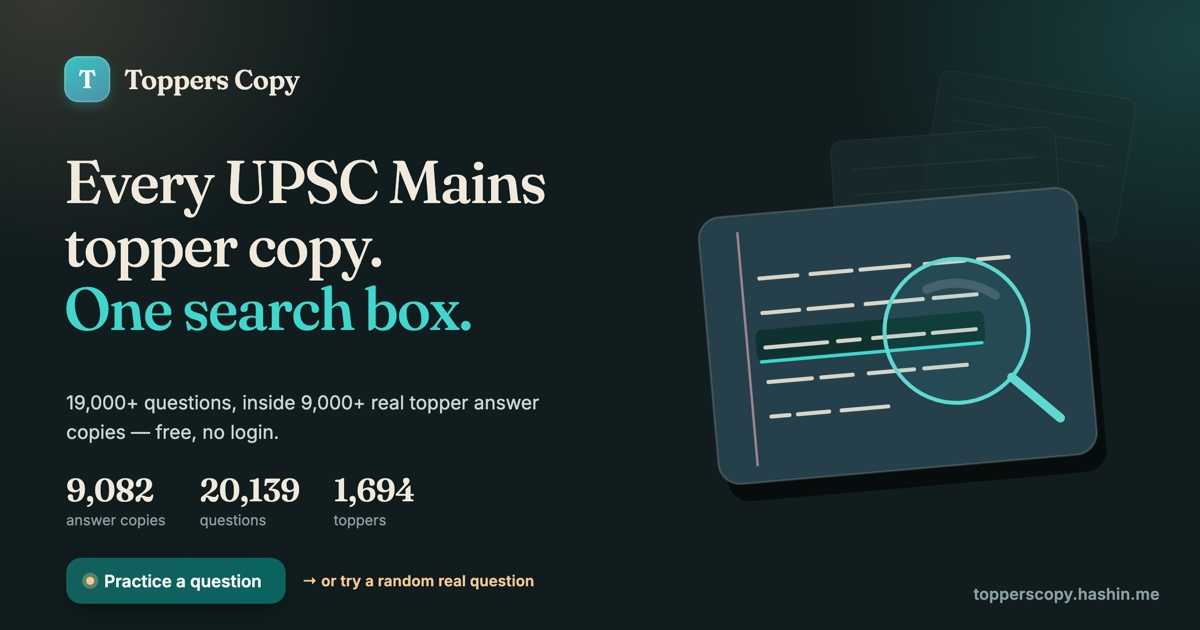
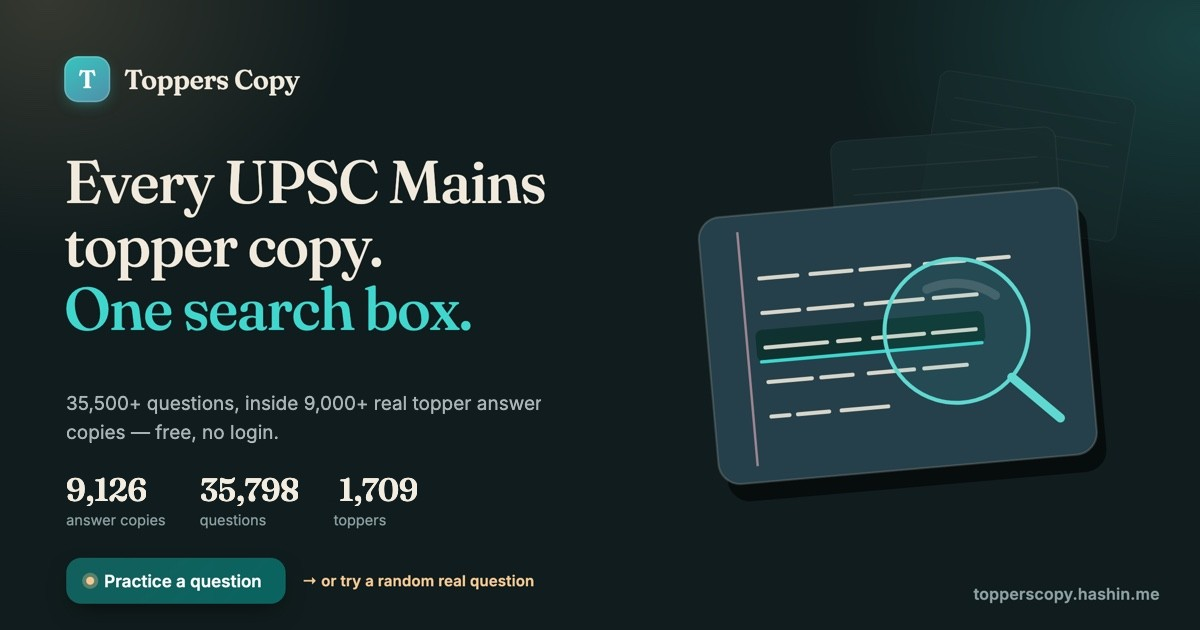
Update the OG hero image's stats to current numbers
assets/og.jpg had 2026-09-11 figures baked into its pixels (9,082
copies, 20,139 questions, 1,694 toppers). Patched just the numbers in
place against the live homepage's current data — sampled the original
image's exact positions/colors, rendered replacement digits in the
site's own fonts, and composited them back in, so the design, brand
mark, and illustration are byte-identical to the original except for
the four number spots. og:image:alt updated to match.

diff --git a/index.html b/index.html
@@ -6,7 +6,7 @@
 
 <title>Topper's Copy by Hashin — UPSC Mains topper answer copies, searchable</title>
 <!-- META:START -->
-<meta name="description" content="Search 30,500+ questions inside 9,000+ UPSC Civil Services Mains topper answer copies — GS1-4, Essay and optional subjects — plus 3,800+ interview transcripts to help you prepare for your own Personality Test. Free, open and community-built.">
+<meta name="description" content="Search 33,500+ questions inside 9,000+ UPSC Civil Services Mains topper answer copies — GS1-4, Essay and optional subjects — plus 3,800+ interview transcripts to help you prepare for your own Personality Test. Free, open and community-built.">
 <!-- META:END -->
 <link rel="canonical" href="https://topperscopy.hashin.me/">
 <meta name="robots" content="index,follow,max-image-preview:large,max-snippet:-1,max-video-preview:-1">
@@ -20,14 +20,14 @@
 <meta property="og:site_name" content="Topper's Copy by Hashin">
 <meta property="og:title" content="Topper's Copy by Hashin — UPSC Mains topper answer copies, searchable">
 <!-- OGDESC:START -->
-<meta property="og:description" content="Search 30,500+ questions inside 9,000+ UPSC Mains topper answer copies, jump to the exact page, and study 3,800+ real interview transcripts. GS, Essay and optional subjects. Free and open.">
+<meta property="og:description" content="Search 33,500+ questions inside 9,000+ UPSC Mains topper answer copies, jump to the exact page, and study 3,800+ real interview transcripts. GS, Essay and optional subjects. Free and open.">
 <!-- OGDESC:END -->
 <meta property="og:url" content="https://topperscopy.hashin.me/">
 <meta property="og:image" content="https://topperscopy.hashin.me/assets/og.jpg">
 <meta property="og:image:type" content="image/jpeg">
 <meta property="og:image:width" content="1200">
 <meta property="og:image:height" content="630">
-<meta property="og:image:alt" content="Topper's Copy by Hashin: every UPSC Mains topper copy, one search box. 9,082 answer copies, 20,139 questions, 1,694 toppers — plus a Practice a question button.">
+<meta property="og:image:alt" content="Topper's Copy by Hashin: every UPSC Mains topper copy, one search box. 9,126 answer copies, 35,798 questions, 1,709 toppers — plus a Practice a question button.">
 <meta property="og:locale" content="en_IN">
 <meta name="twitter:card" content="summary_large_image">
 <meta name="twitter:title" content="Topper's Copy by Hashin — UPSC Mains topper answer copies, searchable">
@@ -162,17 +162,17 @@
   <style>.skeleton{min-height:0}</style>
   <section class="prose" style="padding:24px 0">
     <h2>UPSC Mains topper answer copies — full index</h2>
-    <p>30,631 questions from 1,985 answer
-    copies by 678 rankers (GS Paper 1&ndash;4 and Essay), each linking to the exact page of the
+    <p>33,625 questions from 2,164 answer
+    copies by 727 rankers (GS Paper 1&ndash;4 and Essay), each linking to the exact page of the
     source PDF. A free, open, community-built index. Optional-subject copies (Sociology, Anthropology,
     History, PSIR, Geography, Mathematics and more) are community-compiled.</p>
-    <p><strong><a href="toppers.html">Open the full static index of all 1520 toppers and every copy &rarr;</a></strong>
+    <p><strong><a href="toppers.html">Open the full static index of all 1521 toppers and every copy &rarr;</a></strong>
     &nbsp;·&nbsp; <a href="data/copies.json">machine-readable data (JSON)</a>
     &nbsp;·&nbsp; <a href="/llms.txt">llms.txt</a></p>
     <p>Preparing for your own Personality Test? The <a href="/#interviews">Interviews tab</a> has
     3,863 UPSC interview transcripts — real board-by-board questions, DAF topics and candidate
     backgrounds — to see what boards actually ask.</p>
-    <h3>Selected rankers (150 of 678 — full list in <a href="toppers.html">toppers.html</a>)</h3>
+    <h3>Selected rankers (150 of 727 — full list in <a href="toppers.html">toppers.html</a>)</h3>
     <ul>
 <li><a href="/topper/aditya-srivastava/">Aditya Srivastava</a> — AIR 1 · CSE 2023</li>
 <li><a href="/topper/ishita-kishore/">Ishita Kishore</a> — AIR 1 · CSE 2022</li>
@@ -241,17 +241,20 @@
 <li><a href="/topper/sagar-kumar/">Sagar Kumar</a> — AIR 13 · CSE 2017</li>
 <li><a href="/topper/varnit-negi/">Varnit Negi</a> — AIR 13 · CSE 2018</li>
 <li><a href="/topper/vidushi-singh/">Vidushi Singh</a> — AIR 13 · CSE 2022</li>
+<li><a href="/topper/anmol-jain/">Anmol Jain</a> — AIR 14 · CSE 2019</li>
 <li><a href="/topper/karishma-nair/">Karishma Nair</a> — AIR 14 · CSE 2020</li>
 <li><a href="/topper/kritika-goyal/">Kritika Goyal</a> — AIR 14 · CSE 2022</li>
 <li><a href="/topper/surabhi-yadav/">Surabhi Yadav</a> — AIR 14 · CSE 2025</li>
 <li><a href="/topper/utsav-kaushal/">Utsav Kaushal</a> — AIR 14 · CSE 2016</li>
 <li><a href="/topper/banna-venkatesh/">Banna Venkatesh</a> — AIR 15 · CSE 2024</li>
+<li><a href="/topper/kunal-rastogi/">Kunal Rastogi</a> — AIR 15 · CSE 2023</li>
 <li><a href="/topper/neha-bhosle/">Neha Bhosle</a> — AIR 15 · CSE 2019</li>
 <li><a href="/topper/ria-dabi/">Ria Dabi</a> — AIR 15 · CSE 2020</li>
 <li><a href="/topper/shivani-goyal/">Shivani Goyal</a> — AIR 15 · CSE 2017</li>
 <li><a href="/topper/sidharth-b/">Sidharth B.</a> — AIR 15 · CSE 2016</li>
 <li><a href="/topper/simrandeep-kaur/">Simrandeep Kaur</a> — AIR 15 · CSE 2025</li>
 <li><a href="/topper/anshu-priya/">Anshu Priya</a> — AIR 16 · CSE 2021</li>
+<li><a href="/topper/arth-jain/">Arth Jain</a> — AIR 16 · CSE 2020</li>
 <li><a href="/topper/ayan-jain/">Ayan Jain</a> — AIR 16 · CSE 2023</li>
 <li><a href="/topper/gunjan-singh/">Gunjan Singh</a> — AIR 16 · CSE 2019</li>
 <li><a href="/topper/madhav-agarwal/">Madhav Agarwal</a> — AIR 16 · CSE 2024</li>
@@ -261,9 +264,11 @@
 <li><a href="/topper/chitwan-jain/">Chitwan Jain</a> — AIR 17 · CSE 2025</li>
 <li><a href="/topper/mehak-jain/">Mehak Jain</a> — AIR 17 · CSE 2021</li>
 <li><a href="/topper/sanskriti-trivedy/">Sanskriti Trivedy</a> — AIR 17 · CSE 2024</li>
+<li><a href="/topper/sarthak-agrawal/">Sarthak Agrawal</a> — AIR 17 · CSE 2020 <a class="tg" href="https://t.me/SarthakUPSCPSIR" target="_blank" rel="nofollow noopener">Telegram ↗</a></li>
 <li><a href="/topper/swati-sharma/">Swati Sharma</a> — AIR 17 · CSE 2023</li>
 <li><a href="/topper/manish-gurwani/">Manish Gurwani</a> — AIR 18 · CSE 2016</li>
 <li><a href="/topper/radhika-gupta/">Radhika Gupta</a> — AIR 18 · CSE 2020</li>
+<li><a href="/topper/siddharth-shukla/">Siddharth Shukla</a> — AIR 18 · CSE 2022</li>
 <li><a href="/topper/sruthii-r/">Sruthii R</a> — AIR 18 · CSE 2025</li>
 <li><a href="/topper/abhijeet-sinha/">Abhijeet Sinha</a> — AIR 19 · CSE 2017</li>
 <li><a href="/topper/diksha-joshi/">Diksha Joshi</a> — AIR 19 · CSE 2021</li>
@@ -276,6 +281,7 @@
 <li><a href="/topper/trilok-singh/">Trilok Singh</a> — AIR 20 · CSE 2024 <a class="tg" href="https://t.me/ias_trilok_singhair20" target="_blank" rel="nofollow noopener">Telegram ↗</a></li>
 <li><a href="/topper/divyank-gupta/">Divyank Gupta</a> — AIR 21 · CSE 2024</li>
 <li><a href="/topper/pratyush-pandey/">Pratyush Pandey</a> — AIR 21 · CSE 2019</li>
+<li><a href="/topper/rahul-jain/">Rahul Jain</a> — AIR 21 · CSE 2018</li>
 <li><a href="/topper/akhil-pilani/">Akhil Pilani</a> — AIR 22 · CSE 2017</li>
 <li><a href="/topper/anshul/">Anshul</a> — AIR 22</li>
 <li><a href="/topper/geetika-arora/">Geetika Arora</a> — AIR 22 · CSE 2025</li>
@@ -293,6 +299,7 @@
 <li><a href="/topper/ritika-verma/">RITIKA VERMA</a> — AIR 25 · CSE 2023</li>
 <li><a href="/topper/saad-miya-khan/">Saad Miya Khan</a> — AIR 25 · CSE 2017</li>
 <li><a href="/topper/shruti-rajlakshmi/">Shruti Rajlakshmi</a> — AIR 25 · CSE 2021</li>
+<li><a href="/topper/vaibhav-gondane/">Vaibhav Gondane</a> — AIR 25 · CSE 2018</li>
 <li><a href="/topper/vaibhav-rawat/">Vaibhav Rawat</a> — AIR 25 · CSE 2020</li>
 <li><a href="/topper/himanshu-nagpal/">Himanshu Nagpal</a> — AIR 26 · CSE 2018</li>
 <li><a href="/topper/rupal-rana/">Rupal Rana</a> — AIR 26 · CSE 2023</li>
@@ -303,6 +310,7 @@
 <li><a href="/topper/divya-mishra/">Divya Mishra</a> — AIR 28 · CSE 2020</li>
 <li><a href="/topper/rishabh-choudhary/">Rishabh Choudhary</a> — AIR 28 · CSE 2024 <a class="tg" href="https://t.me/rishabhchoudhary28" target="_blank" rel="nofollow noopener">Telegram ↗</a></li>
 <li><a href="/topper/sameera/">Sameera</a> — AIR 28 · CSE 2017</li>
+<li><a href="/topper/keerthi-vasan/">Keerthi Vasan</a> — AIR 29 · CSE 2017</li>
 <li><a href="/topper/nabiya/">Nabiya</a> — AIR 29 · CSE 2025</li>
 <li><a href="/topper/nabiya-parvez/">Nabiya Parvez</a> — AIR 29 · CSE 2025</li>
 <li><a href="/topper/pourush-sood/">Pourush Sood</a> — AIR 29 · CSE 2022</li>
@@ -311,19 +319,11 @@
 <li><a href="/topper/nikita-verma/">Nikita Verma</a> — AIR 30 · CSE 2025</li>
 <li><a href="/topper/pari-bishnoi/">Pari Bishnoi</a> — AIR 30 · CSE 2019</li>
 <li><a href="/topper/aryan-yadav/">Aryan Yadav</a> — AIR 31 · CSE 2025</li>
+<li><a href="/topper/priyansha-garg/">Priyansha Garg</a> — AIR 31 · CSE 2022</li>
 <li><a href="/topper/shreya-tyagi/">Shreya Tyagi</a> — AIR 31 · CSE 2024</li>
 <li><a href="/topper/simi-karan/">Simi Karan</a> — AIR 31 · CSE 2019</li>
 <li><a href="/topper/vishnu-sasikumar/">Vishnu Sasikumar</a> — AIR 31 · CSE 2023</li>
 <li><a href="/topper/y-megha-swaroop/">Y Megha Swaroop</a> — AIR 31 · CSE 2020</li>
-<li><a href="/topper/arjun-gupta/">Arjun Gupta</a> — AIR 32 · CSE 2023</li>
-<li><a href="/topper/utkarsh-yadav/">Utkarsh Yadav</a> — AIR 32 · CSE 2024</li>
-<li><a href="/topper/mayank-purohit/">Mayank Purohit</a> — AIR 33 · CSE 2025</li>
-<li><a href="/topper/navneet-mann/">Navneet Mann</a> — AIR 33 · CSE 2019</li>
-<li><a href="/topper/tharun-patnaik/">Tharun Patnaik</a> — AIR 33 · CSE 2022</li>
-<li><a href="/topper/tharun-patnaik-madala/">Tharun Patnaik Madala</a> — AIR 33 · CSE 2022</li>
-<li><a href="/topper/zufishan-haque/">Zufishan Haque</a> — AIR 33 · CSE 2023</li>
-<li><a href="/topper/abhi-jain/">Abhi Jain</a> — AIR 34 · CSE 2024</li>
-<li><a href="/topper/ankit/">Ankit</a> — AIR 34 · CSE 2018</li>
     </ul>
   </section>
 </noscript>
@@ -627,7 +627,7 @@
 
 <!-- LD:START -->
 <script type="application/ld+json">
-{"@context":"https://schema.org","@graph":[{"@type":"WebSite","@id":"https://topperscopy.hashin.me/#website","url":"https://topperscopy.hashin.me/","name":"Topper's Copy by Hashin","description":"Searchable directory of UPSC Civil Services Mains topper answer copies — GS1–4, Essay and optional subjects.","inLanguage":"en","publisher":{"@id":"https://topperscopy.hashin.me/#org"},"potentialAction":{"@type":"SearchAction","target":{"@type":"EntryPoint","urlTemplate":"https://topperscopy.hashin.me/?q={search_term_string}"},"query-input":"required name=search_term_string"}},{"@type":"Organization","@id":"https://topperscopy.hashin.me/#org","name":"Topper's Copy by Hashin","url":"https://topperscopy.hashin.me/","description":"A free, open, community-built index of UPSC Mains topper answer copies.","founder":{"@id":"https://topperscopy.hashin.me/#hashin"}},{"@type":"Person","@id":"https://topperscopy.hashin.me/#hashin","name":"Hashin Jithu","url":"https://blog.hashin.me","description":"Creator and maintainer of Topper's Copy by Hashin. Topper of the UPSC Civil Services Examination 2021 with an All India Rank of 553. Built Topper's Copy by Hashin as a non-commercial way of giving back to the UPSC aspirant community.","knowsAbout":["UPSC Civil Services Examination","UPSC Mains answer writing","Public policy"],"award":"All India Rank 553, UPSC Civil Services Examination 2021"},{"@type":"Dataset","@id":"https://topperscopy.hashin.me/#dataset","name":"UPSC Mains Topper Answer Copies — question index","description":"A structured index of 30,631 questions across 1,985 UPSC Civil Services Mains answer copies written by 678 rank-holders, covering General Studies Papers 1–4 and the Essay paper. Each record links to the exact page of the source PDF published by coaching institutes such as ForumIAS, Vision IAS and NextIAS.","url":"https://topperscopy.hashin.me/","keywords":["UPSC","Civil Services Exam","Mains","answer copy","toppers","General Studies","Essay","IAS","interview transcripts","Personality Test"],"license":"https://github.com/hashin/topperscopy/blob/main/LICENSE","isAccessibleForFree":true,"creator":{"@id":"https://topperscopy.hashin.me/#org"},"dateModified":"2026-09-17","distribution":[{"@type":"DataDownload","name":"Complete flat question table (CSV)","encodingFormat":"text/csv","contentUrl":"https://topperscopy.hashin.me/dataset/questions.csv"},{"@type":"DataDownload","name":"Complete dataset (nested JSON)","encodingFormat":"application/json","contentUrl":"https://topperscopy.hashin.me/dataset/dataset.json"},{"@type":"DataDownload","name":"Per-topper table (CSV)","encodingFormat":"text/csv","contentUrl":"https://topperscopy.hashin.me/dataset/toppers.csv"},{"@type":"DataDownload","name":"App index, grouped by topper (JSON)","encodingFormat":"application/json","contentUrl":"https://topperscopy.hashin.me/data/copies.json"}]},{"@type":"FAQPage","@id":"https://topperscopy.hashin.me/#faq","mainEntity":[{"@type":"Question","name":"What is Topper's Copy by Hashin?","acceptedAnswer":{"@type":"Answer","text":"A free, searchable directory of UPSC Civil Services Mains topper answer copies. It indexes 30,631 questions inside 1,985 answer copies by 678 rankers and links to the exact page of each source PDF."}},{"@type":"Question","name":"Where do the answer copies come from?","acceptedAnswer":{"@type":"Answer","text":"Every copy is hosted by the coaching institute or compiler that published it — ForumIAS, Vision IAS, NextIAS, Lukmaan IAS, GS SCORE, Rau’s IAS, Level Up IAS, IMS4Maths, SuccessClap, UnlockIAS, Sleepy Classes and others — or the topper’s own Google Drive. Topper's Copy by Hashin only links to those files and never re-hosts them; it is a free, open, community-built index."}},{"@type":"Question","name":"Does it cover optional subjects?","acceptedAnswer":{"@type":"Answer","text":"Yes. Alongside GS1–GS4 and Essay, there is a community-built section for optional subjects — Sociology, Anthropology, History, PSIR, Geography, Public Administration, Philosophy, Economics, Literature and more."}},{"@type":"Question","name":"Can I prepare for the UPSC interview (Personality Test) here?","acceptedAnswer":{"@type":"Answer","text":"Yes. The Interviews tab has 3,863 real UPSC Personality Test transcripts — board members, the questions each panellist actually asked, DAF topics discussed, and candidate hobbies and education background — searchable by board, year, optional subject or state."}},{"@type":"Question","name":"Is it free?","acceptedAnswer":{"@type":"Answer","text":"Yes, completely free and open source. No login, no ads."}},{"@type":"Question","name":"How can I add a missing copy or a topper’s marks?","acceptedAnswer":{"@type":"Answer","text":"Use the Submit form on the site. It opens a pre-filled GitHub issue that a maintainer verifies before it goes live."}}]}]}
+{"@context":"https://schema.org","@graph":[{"@type":"WebSite","@id":"https://topperscopy.hashin.me/#website","url":"https://topperscopy.hashin.me/","name":"Topper's Copy by Hashin","description":"Searchable directory of UPSC Civil Services Mains topper answer copies — GS1–4, Essay and optional subjects.","inLanguage":"en","publisher":{"@id":"https://topperscopy.hashin.me/#org"},"potentialAction":{"@type":"SearchAction","target":{"@type":"EntryPoint","urlTemplate":"https://topperscopy.hashin.me/?q={search_term_string}"},"query-input":"required name=search_term_string"}},{"@type":"Organization","@id":"https://topperscopy.hashin.me/#org","name":"Topper's Copy by Hashin","url":"https://topperscopy.hashin.me/","description":"A free, open, community-built index of UPSC Mains topper answer copies.","founder":{"@id":"https://topperscopy.hashin.me/#hashin"}},{"@type":"Person","@id":"https://topperscopy.hashin.me/#hashin","name":"Hashin Jithu","url":"https://blog.hashin.me","description":"Creator and maintainer of Topper's Copy by Hashin. Topper of the UPSC Civil Services Examination 2021 with an All India Rank of 553. Built Topper's Copy by Hashin as a non-commercial way of giving back to the UPSC aspirant community.","knowsAbout":["UPSC Civil Services Examination","UPSC Mains answer writing","Public policy"],"award":"All India Rank 553, UPSC Civil Services Examination 2021"},{"@type":"Dataset","@id":"https://topperscopy.hashin.me/#dataset","name":"UPSC Mains Topper Answer Copies — question index","description":"A structured index of 33,625 questions across 2,164 UPSC Civil Services Mains answer copies written by 727 rank-holders, covering General Studies Papers 1–4 and the Essay paper. Each record links to the exact page of the source PDF published by coaching institutes such as ForumIAS, Vision IAS and NextIAS.","url":"https://topperscopy.hashin.me/","keywords":["UPSC","Civil Services Exam","Mains","answer copy","toppers","General Studies","Essay","IAS","interview transcripts","Personality Test"],"license":"https://github.com/hashin/topperscopy/blob/main/LICENSE","isAccessibleForFree":true,"creator":{"@id":"https://topperscopy.hashin.me/#org"},"dateModified":"2026-09-19","distribution":[{"@type":"DataDownload","name":"Complete flat question table (CSV)","encodingFormat":"text/csv","contentUrl":"https://topperscopy.hashin.me/dataset/questions.csv"},{"@type":"DataDownload","name":"Complete dataset (nested JSON)","encodingFormat":"application/json","contentUrl":"https://topperscopy.hashin.me/dataset/dataset.json"},{"@type":"DataDownload","name":"Per-topper table (CSV)","encodingFormat":"text/csv","contentUrl":"https://topperscopy.hashin.me/dataset/toppers.csv"},{"@type":"DataDownload","name":"App index, grouped by topper (JSON)","encodingFormat":"application/json","contentUrl":"https://topperscopy.hashin.me/data/copies.json"}]},{"@type":"FAQPage","@id":"https://topperscopy.hashin.me/#faq","mainEntity":[{"@type":"Question","name":"What is Topper's Copy by Hashin?","acceptedAnswer":{"@type":"Answer","text":"A free, searchable directory of UPSC Civil Services Mains topper answer copies. It indexes 33,625 questions inside 2,164 answer copies by 727 rankers and links to the exact page of each source PDF."}},{"@type":"Question","name":"Where do the answer copies come from?","acceptedAnswer":{"@type":"Answer","text":"Every copy is hosted by the coaching institute or compiler that published it — ForumIAS, Vision IAS, NextIAS, Lukmaan IAS, GS SCORE, Rau’s IAS, Level Up IAS, IMS4Maths, SuccessClap, UnlockIAS, Sleepy Classes and others — or the topper’s own Google Drive. Topper's Copy by Hashin only links to those files and never re-hosts them; it is a free, open, community-built index."}},{"@type":"Question","name":"Does it cover optional subjects?","acceptedAnswer":{"@type":"Answer","text":"Yes. Alongside GS1–GS4 and Essay, there is a community-built section for optional subjects — Sociology, Anthropology, History, PSIR, Geography, Public Administration, Philosophy, Economics, Literature and more."}},{"@type":"Question","name":"Can I prepare for the UPSC interview (Personality Test) here?","acceptedAnswer":{"@type":"Answer","text":"Yes. The Interviews tab has 3,863 real UPSC Personality Test transcripts — board members, the questions each panellist actually asked, DAF topics discussed, and candidate hobbies and education background — searchable by board, year, optional subject or state."}},{"@type":"Question","name":"Is it free?","acceptedAnswer":{"@type":"Answer","text":"Yes, completely free and open source. No login, no ads."}},{"@type":"Question","name":"How can I add a missing copy or a topper’s marks?","acceptedAnswer":{"@type":"Answer","text":"Use the Submit form on the site. It opens a pre-filled GitHub issue that a maintainer verifies before it goes live."}}]}]}
 </script>
 <!-- LD:END -->
 
